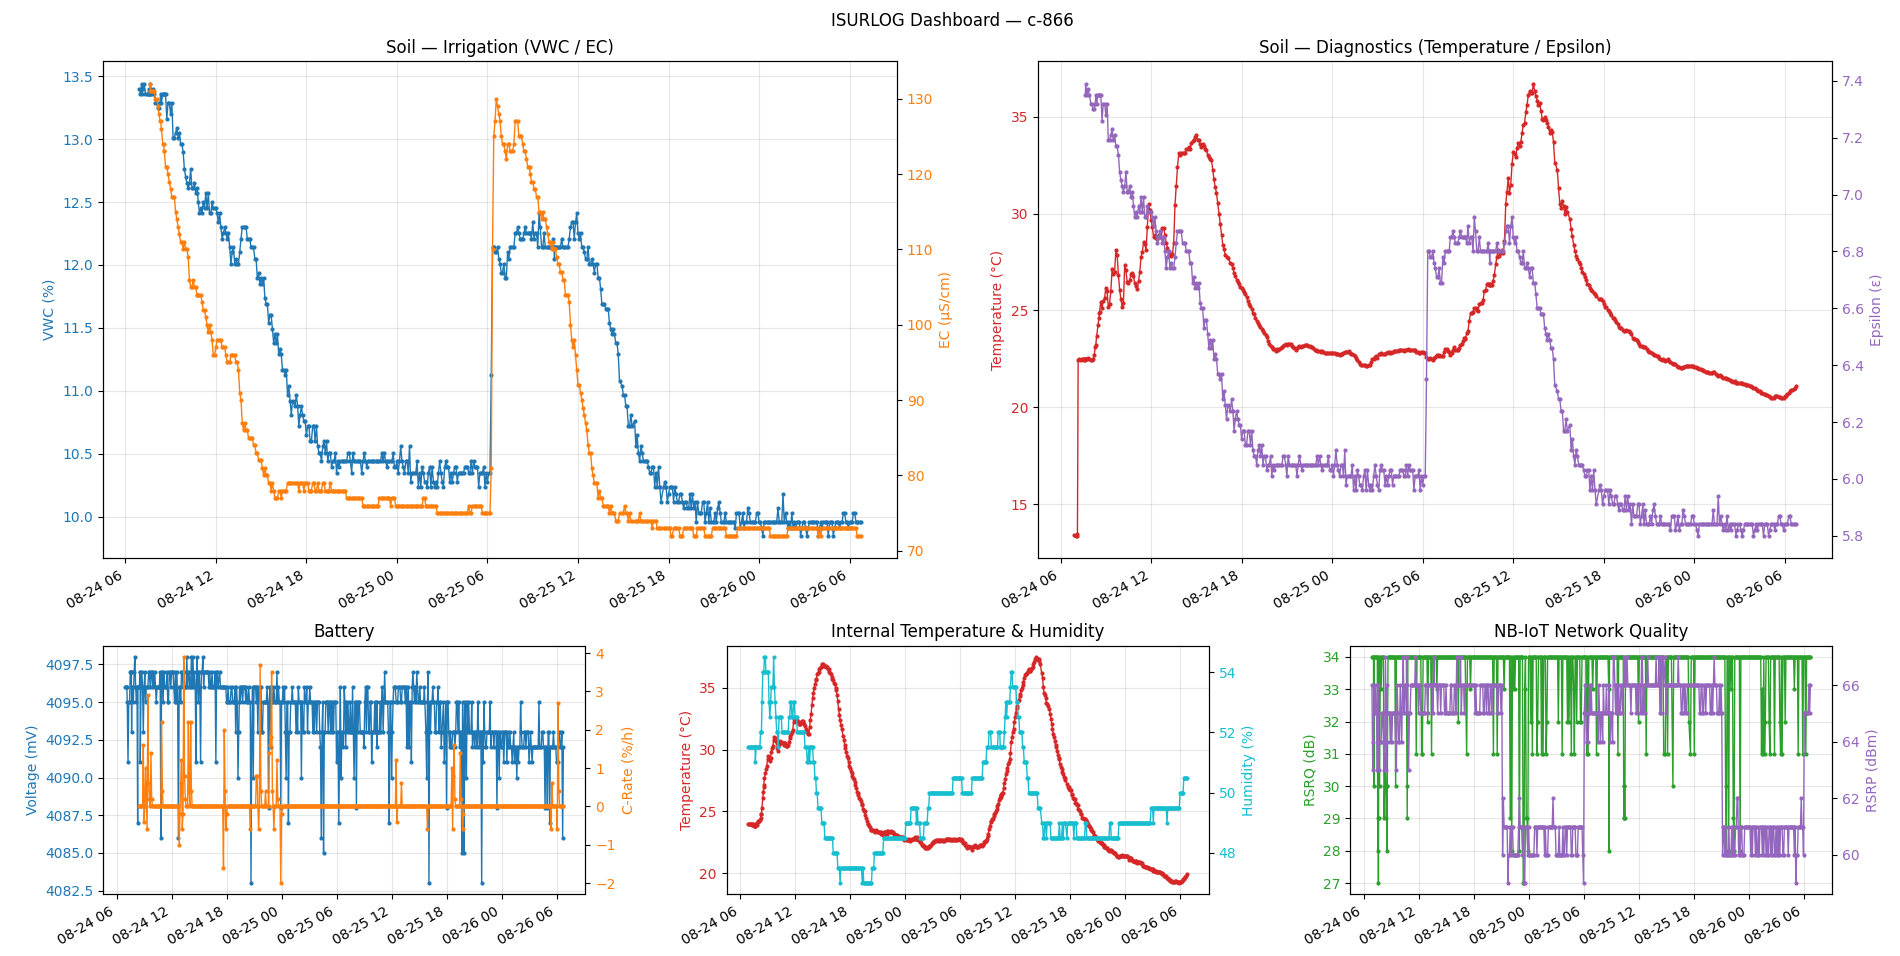
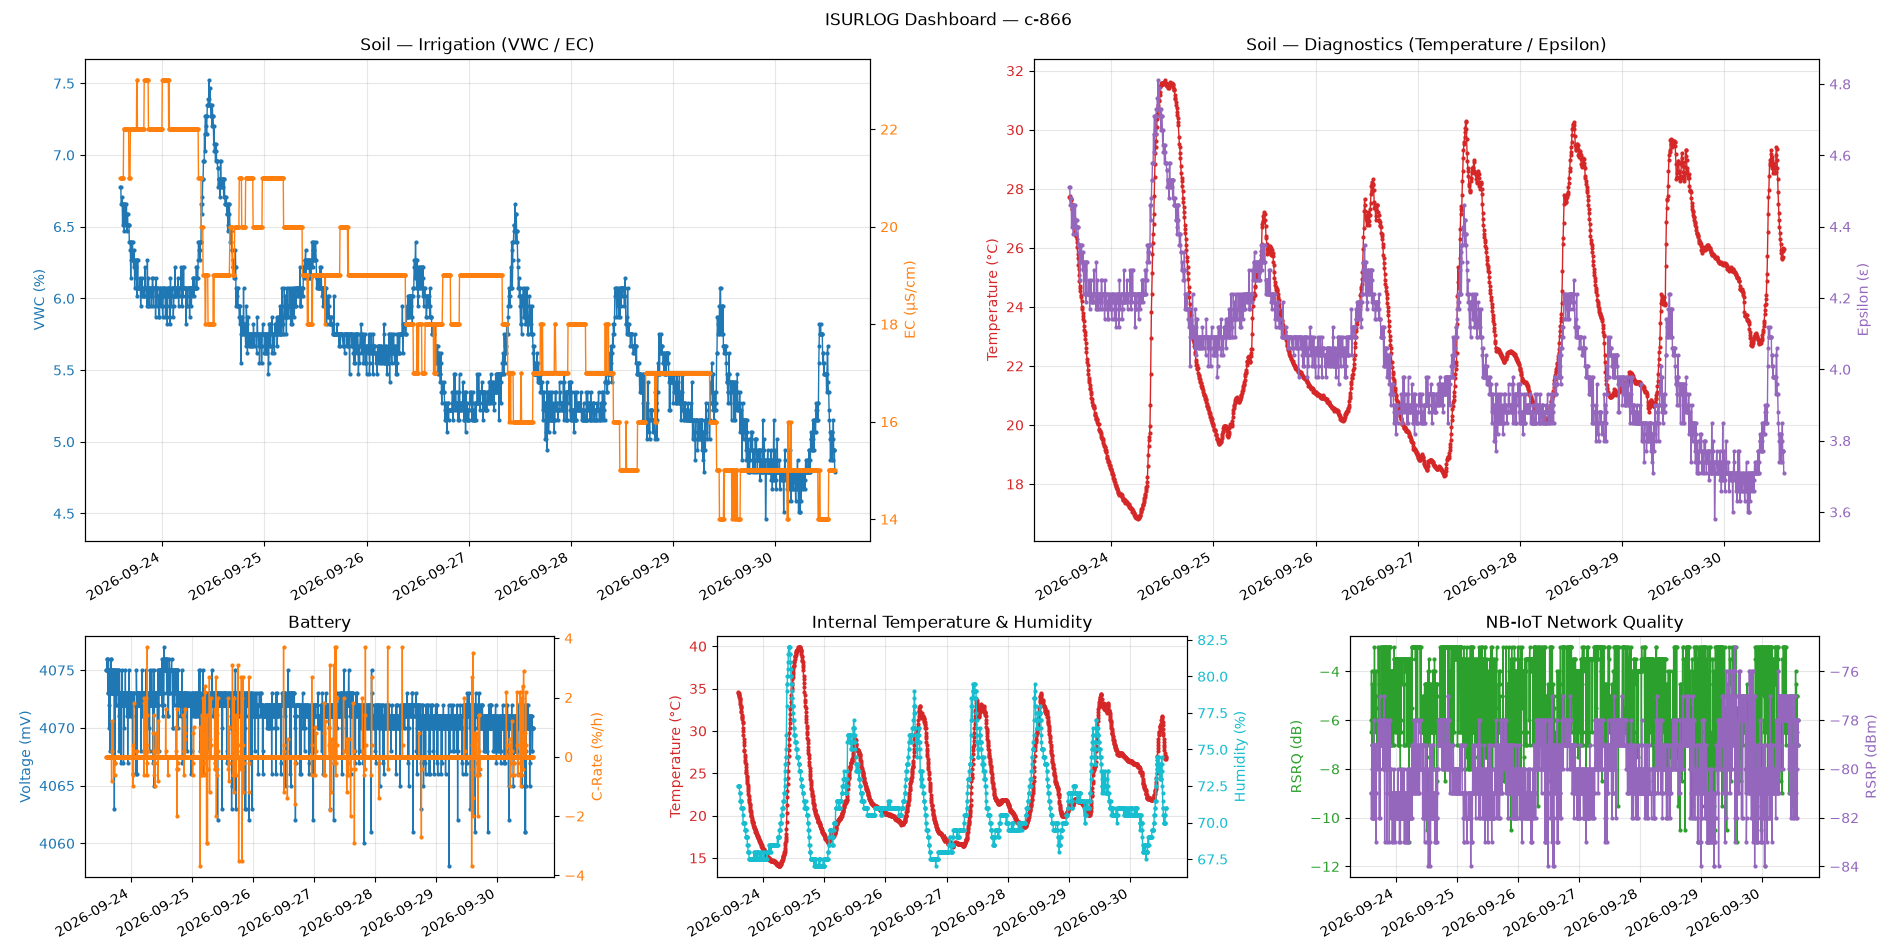
docs-site: Document ModemData0/1 as raw 3GPP indices, not dB/dBm
The docs said ModemData0 is RSRQ in dB and ModemData1 is RSRP in dBm,
but the firmware stores the unconverted +CESQ index (int(data[4]),
int(data[5])). Real data confirms it: c-866 RSRP index 57-66, RSRQ
index 16-34. State the raw index, its valid range, and the conversion
formulas in both the InfluxDB and MQTT payload tables (both languages),
and refresh the dashboard screenshot now that the demo script converts.

diff --git a/docs-site/docs/historical-data-influxdb.es.md b/docs-site/docs/historical-data-influxdb.es.md
@@ -51,8 +51,8 @@ Esta sección ofrece la correspondencia entre las entradas físicas y virtuales 
 | **Accelerometer Z-axis** | `AccelerometerZ0` | Aceleración en el eje Z (g). |
 | **Battery Voltage** | `VoltageInput0` | La tensión de batería del dispositivo, en milivoltios (mV). |
 | **Battery C-Rate** | `CRateInput0` | La tasa de carga/descarga de la batería, en %/h. |
-| **Modem Signal Quality** | `ModemData0` | RSRQ (calidad de señal recibida de referencia) reportada por el módem, en **dB**. **Solo dispositivos NB-IoT** — no disponible en dispositivos LoRaWAN. |
-| **Modem Signal Strength** | `ModemData1` | RSRP (potencia de señal recibida de referencia) reportada por el módem, en **dBm**. **Solo dispositivos NB-IoT** — no disponible en dispositivos LoRaWAN. |
+| **Modem Signal Quality** | `ModemData0` | RSRQ (calidad de señal recibida de referencia), guardada como el **índice 3GPP en bruto** del módem (0–34; 255 = no detectable), no en dB. Para convertir: **dB = (valor − 40) / 2**. **Solo dispositivos NB-IoT** — no disponible en dispositivos LoRaWAN. |
+| **Modem Signal Strength** | `ModemData1` | RSRP (potencia de señal recibida de referencia), guardada como el **índice 3GPP en bruto** del módem (0–97; 255 = no detectable), no en dBm. Para convertir: **dBm = valor − 141**. **Solo dispositivos NB-IoT** — no disponible en dispositivos LoRaWAN. |
 
 ## 2.5 Implementación de Referencia
 
@@ -117,7 +117,7 @@ Esto imprime una tabla con las lecturas de los últimos 7 días y abre una **ún
 2. **Soil — Diagnostics** *(grande)* — temperatura del suelo (`ModbusInput0`, eje izquierdo, °C) frente a permitividad dieléctrica en bruto (`ModbusInput3`/Epsilon, eje derecho — sin unidad, ya que es un ratio entre dos permitividades).
 3. **Battery** *(pequeño)* — tensión (`VoltageInput0`, eje izquierdo) frente a tasa de carga (`CRateInput0`, eje derecho).
 4. **Internal Temperature & Humidity** *(pequeño)* — `TemperatureSensor0` (eje izquierdo) frente a `HumiditySensor0` (eje derecho).
-5. **NB-IoT Network Quality** *(pequeño)* — RSRQ en dB (`ModemData0`, eje izquierdo) frente a RSRP en dBm (`ModemData1`, eje derecho).
+5. **NB-IoT Network Quality** *(pequeño)* — RSRQ en dB (`ModemData0`, eje izquierdo) frente a RSRP en dBm (`ModemData1`, eje derecho), ambos convertidos por el script a partir de los índices en bruto guardados en la base de datos.
 
 Cada gráfico representa dos campos con ejes Y independientes (izquierdo/derecho), ya que normalmente están en escalas muy distintas. El helper subyacente `_plot_dual_axis()` puede reutilizarse para construir gráficos adicionales para cualquier otra clave `_field` de la **[2.4 Esquema de Datos: Referencia de Claves de Campo](#24-esquema-de-datos-referencia-de-claves-de-campo)**. Los tamaños desiguales de los paneles se construyen con `GridSpec` de `matplotlib` (en vez de una cuadrícula uniforme de `plt.subplots()`), de forma que los dos paneles grandes puedan ocupar cada uno lo que de otro modo serían 1,5 columnas de una cuadrícula de 3 columnas normal.
 

diff --git a/docs-site/docs/historical-data-influxdb.md b/docs-site/docs/historical-data-influxdb.md
@@ -51,8 +51,8 @@ This section provides the mapping between the physical and virtual inputs of the
 | **Accelerometer Z-axis** | `AccelerometerZ0` | Acceleration on the Z axis (g). |
 | **Battery Voltage** | `VoltageInput0` | The device's battery voltage in millivolts (mV). |
 | **Battery C-Rate** | `CRateInput0` | The battery's charge/discharge rate, in %/h. |
-| **Modem Signal Quality** | `ModemData0` | RSRQ (Reference Signal Received Quality) reported by the modem, in **dB**. **NB-IoT devices only** — not available on LoRaWAN devices. |
-| **Modem Signal Strength** | `ModemData1` | RSRP (Reference Signal Received Power) reported by the modem, in **dBm**. **NB-IoT devices only** — not available on LoRaWAN devices. |
+| **Modem Signal Quality** | `ModemData0` | RSRQ (Reference Signal Received Quality), stored as the modem's **raw 3GPP index** (0–34; 255 = not detectable), not in dB. To convert: **dB = (value − 40) / 2**. **NB-IoT devices only** — not available on LoRaWAN devices. |
+| **Modem Signal Strength** | `ModemData1` | RSRP (Reference Signal Received Power), stored as the modem's **raw 3GPP index** (0–97; 255 = not detectable), not in dBm. To convert: **dBm = value − 141**. **NB-IoT devices only** — not available on LoRaWAN devices. |
 
 ## 2.5 Reference Implementation
 
@@ -117,7 +117,7 @@ This prints a table of the last 7 days of readings and opens a **single window w
 2. **Soil — Diagnostics** *(large)* — soil temperature (`ModbusInput0`, left axis, °C) vs. raw dielectric permittivity (`ModbusInput3`/Epsilon, right axis — dimensionless, it's a ratio of two permittivities so it has no unit).
 3. **Battery** *(small)* — voltage (`VoltageInput0`, left axis) vs. C-rate (`CRateInput0`, right axis).
 4. **Internal Temperature & Humidity** *(small)* — `TemperatureSensor0` (left axis) vs. `HumiditySensor0` (right axis).
-5. **NB-IoT Network Quality** *(small)* — RSRQ in dB (`ModemData0`, left axis) vs. RSRP in dBm (`ModemData1`, right axis).
+5. **NB-IoT Network Quality** *(small)* — RSRQ in dB (`ModemData0`, left axis) vs. RSRP in dBm (`ModemData1`, right axis), both converted by the script from the raw indices stored in the database.
 
 Each chart plots two fields with independent Y-axes (left/right), since they're normally on very different scales. The underlying `_plot_dual_axis()` helper can be reused to build additional charts for any other `_field` key from **[2.4 Data Schema: Field Key Reference](#24-data-schema-field-key-reference)**. The uneven panel sizes are built with `matplotlib`'s `GridSpec` (rather than a uniform `plt.subplots()` grid) so the two large panels can each span what would otherwise be 1.5 columns of a plain 3-column layout.
 

diff --git a/docs-site/docs/realtime-data-mqtt.es.md b/docs-site/docs/realtime-data-mqtt.es.md
@@ -110,7 +110,7 @@ Todos los valores multibyte se codifican en orden **Big-Endian**. El primer payl
 | **Battery Voltage** | 0 | 0x74 | Entero sin signo de 2 bytes | Valor final = Entero (en mV) |
 | **Unix Timestamp** | 0 | 0x75 | Entero sin signo de 4 bytes | Valor final = Entero (segundos) |
 | **Battery C-Rate** | 0 | 0x77 | Entero con signo de 1 byte | Valor final = Entero / 10.0 (%/h) |
-| **Modem Signal Quality** | 0 (RSRQ) / 1 (RSRP) | 0x78 | Entero sin signo de 1 byte | Valor final = Entero (canal 0: dB · canal 1: dBm). **Solo dispositivos NB-IoT.** |
+| **Modem Signal Quality** | 0 (RSRQ) / 1 (RSRP) | 0x78 | Entero sin signo de 1 byte | Valor final = Entero, el **índice 3GPP en bruto** del módem, no una unidad física. Canal 0 (RSRQ, 0–34): dB = (valor − 40) / 2. Canal 1 (RSRP, 0–97): dBm = valor − 141. 255 = no detectable. **Solo dispositivos NB-IoT.** |
 
 !!! note "Nota sobre la semántica del canal"
     Para la mayoría de los tipos de sensor, el canal identifica de qué entrada física proviene la lectura (p. ej. Analog Input 0-3). Para **Accelerometer**, el mismo fragmento empaqueta los tres ejes juntos (no hay un canal separado por eje). Para **Modem Signal Quality**, el canal se reutiliza para distinguir la *métrica* (0 = RSRQ, 1 = RSRP) en vez de una entrada física.

diff --git a/docs-site/docs/realtime-data-mqtt.md b/docs-site/docs/realtime-data-mqtt.md
@@ -110,7 +110,7 @@ All multi-byte values are encoded in **Big-Endian** byte order. The first data p
 | **Battery Voltage** | 0 | 0x74 | 2-byte Unsigned Integer | Final Value = Integer (in mV) |
 | **Unix Timestamp** | 0 | 0x75 | 4-byte Unsigned Integer | Final Value = Integer (seconds) |
 | **Battery C-Rate** | 0 | 0x77 | 1-byte Signed Integer | Final Value = Integer / 10.0 (%/h) |
-| **Modem Signal Quality** | 0 (RSRQ) / 1 (RSRP) | 0x78 | 1-byte Unsigned Integer | Final Value = Integer (channel 0: dB · channel 1: dBm). **NB-IoT devices only.** |
+| **Modem Signal Quality** | 0 (RSRQ) / 1 (RSRP) | 0x78 | 1-byte Unsigned Integer | Final Value = Integer, the modem's **raw 3GPP index**, not a physical unit. Channel 0 (RSRQ, 0–34): dB = (value − 40) / 2. Channel 1 (RSRP, 0–97): dBm = value − 141. 255 = not detectable. **NB-IoT devices only.** |
 
 !!! note "Note on channel semantics"
     for most sensor types, the channel identifies which physical input the reading came from (e.g. Analog Input 0-3). For **Accelerometer**, the same chunk packs all three axes together (there's no separate channel per axis). For **Modem Signal Quality**, the channel is repurposed to distinguish the *metric* (0 = RSRQ, 1 = RSRP) rather than a physical input.
